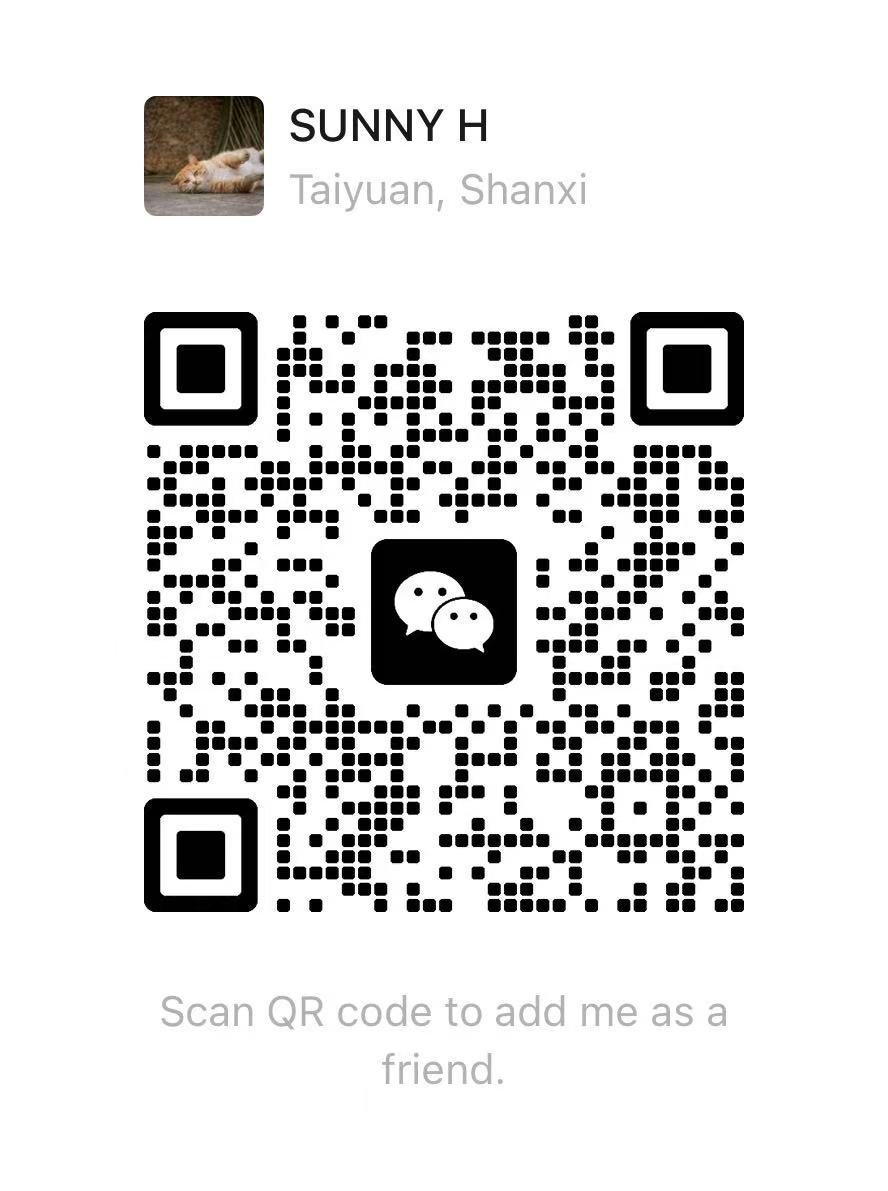
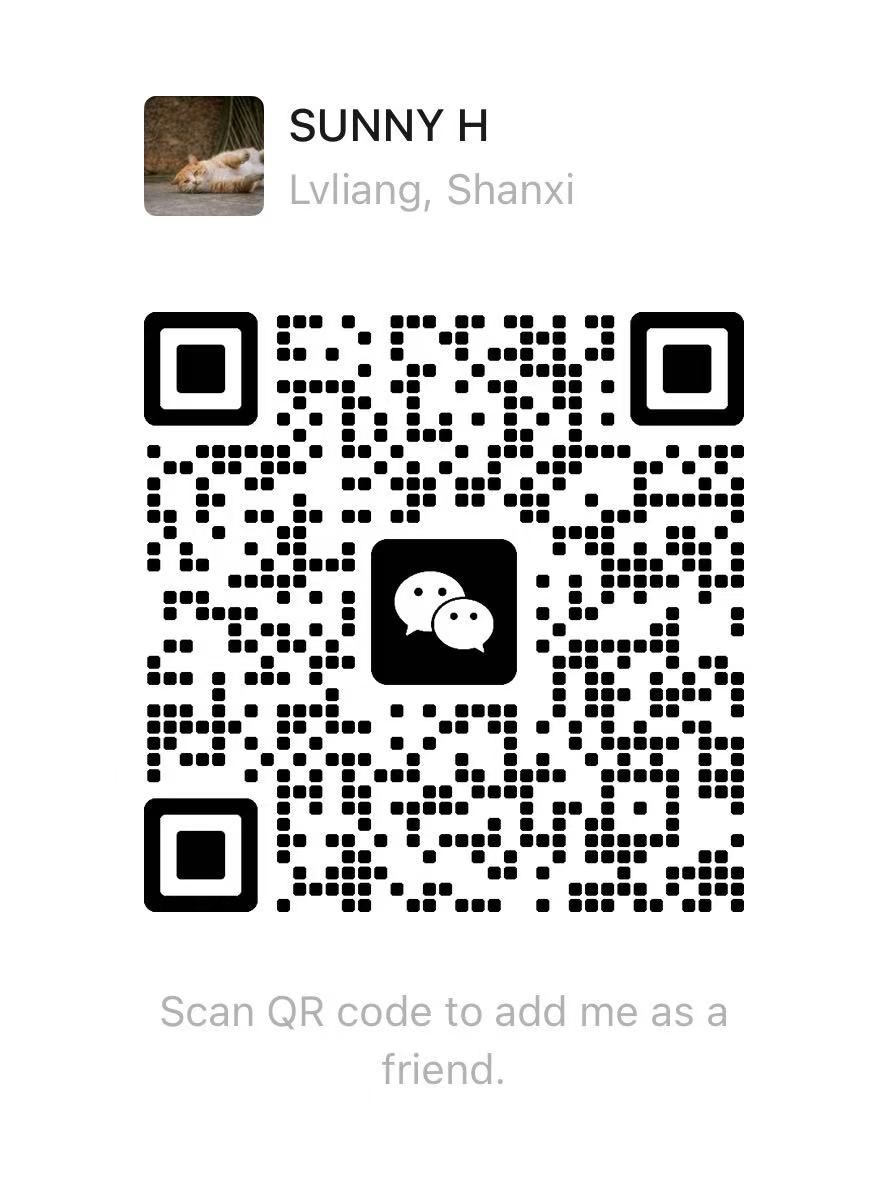
Update WeChat QR code and contact ID

Changed region(s): [[0.152, 0.2485, 0.8514, 0.7767], [0.3345, 0.1243, 0.6689, 0.1864]]

diff --git a/index.html b/index.html
@@ -230,10 +230,10 @@
     </main>
   <dialog id="wechat-dialog" class="wechat-dialog" aria-label="微信二维码" data-i18n-aria="dialog.aria">
     <form method="dialog"><button class="wechat-close" aria-label="关闭" data-i18n-aria="dialog.close" autofocus>×</button></form>
-    <img src="assets/wechat-qr.jpg" alt="贺园园的微信二维码，使用微信扫一扫添加好友" data-i18n-alt="dialog.qrAlt" width="888" height="1191">
-    <p class="wechat-id" data-i18n="dialog.id">微信号：<strong>flames-_</strong></p>
+    <img src="assets/wechat-qr.jpg?v=20261020" alt="贺园园的微信二维码，使用微信扫一扫添加好友" data-i18n-alt="dialog.qrAlt" width="888" height="1191">
+    <p class="wechat-id" data-i18n="dialog.id">微信号：<strong>hey_yuan-</strong></p>
   </dialog>
   <script src="assets/wechat.js?v=20260911" defer></script>
-  <script src="assets/lang.js?v=20261008-flatmap" defer></script>
+  <script src="assets/lang.js?v=20261020-wechat" defer></script>
 </body>
 </html>

diff --git a/assets/lang.js b/assets/lang.js
@@ -81,7 +81,7 @@
       'dialog.aria': '微信二维码',
       'dialog.close': '关闭',
       'dialog.qrAlt': '贺园园的微信二维码，使用微信扫一扫添加好友',
-      'dialog.id': '微信号：<strong>flames-_</strong>'
+      'dialog.id': '微信号：<strong>hey_yuan-</strong>'
     },
     en: {
       'skip.link': 'Skip to content',
@@ -163,7 +163,7 @@
       'dialog.aria': 'WeChat QR code',
       'dialog.close': 'Close',
       'dialog.qrAlt': 'WeChat QR code of Yuanyuan He; scan to add as a contact',
-      'dialog.id': 'WeChat ID: <strong>flames-_</strong>'
+      'dialog.id': 'WeChat ID: <strong>hey_yuan-</strong>'
     }
   };
 
